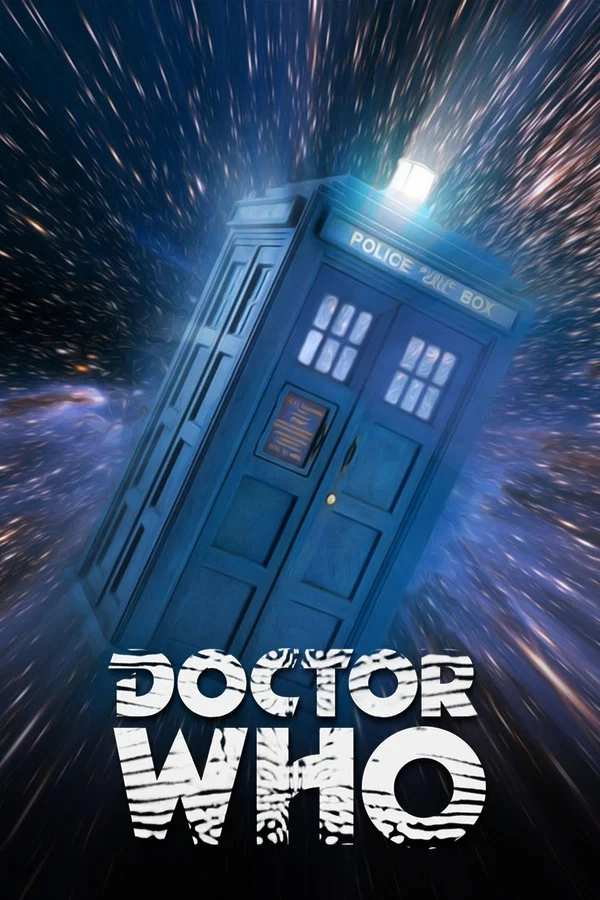
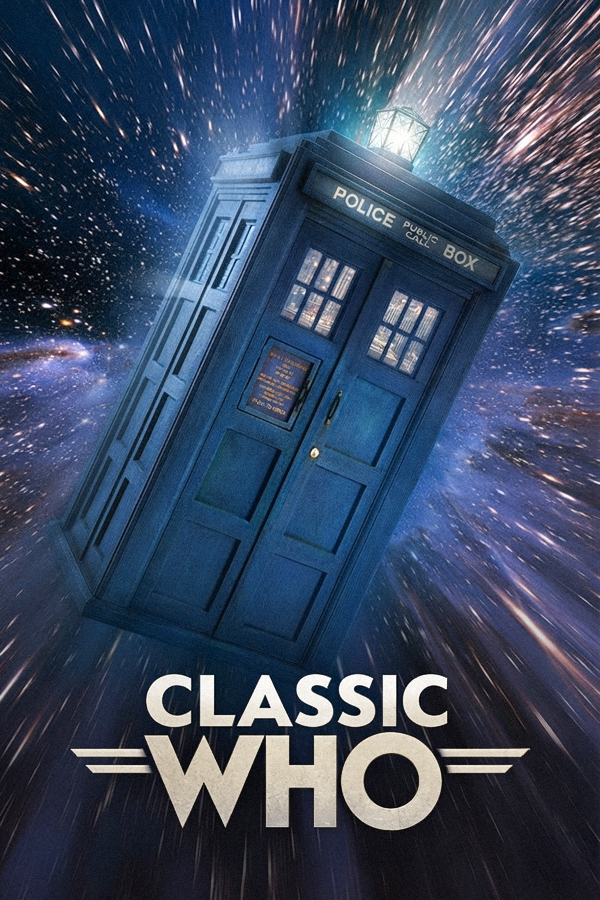
List every series in the catalogue, not only what plays
The catalogue offered the one series with files behind it, so six of the
seven were invisible in the app however good their artwork was. It now
lists all of them, and toSeriesMeta withholds the episode list from any
series with nothing playable: a poster and a description, no seasons.
That withholding is the point. Sending the episodes anyway would put all
716 of Classic Who into the library of anyone who added it, every one a
dead end.

Stamp the CDN images with a hash of their contents while here. The addon
logo has carried one for a while, for the reason its comment gives, but
the posters never did, so a replaced poster sat behind Cloudflare's four
hour cache and Stremio's rather longer one and looked like an upload
that had failed.

Classic Who and New Who get new poster artwork.

diff --git a/scripts/build-art.js b/scripts/build-art.js
@@ -67,11 +67,9 @@ async function cdn() {
   log('art-cdn/addon-logo.png', addonLogo);
 
   // Cloudflare caches the bucket for four hours and keys on the URL, so a
-  // replaced logo keeps serving the old bytes. The addon appends this hash to
-  // the logo's URL, which makes a changed file a changed address.
-  const hash = crypto.createHash('md5').update(fs.readFileSync(path.join(CDN, 'addon-logo.png'))).digest('hex').slice(0, 8);
-  fs.writeFileSync(path.join(ROOT, 'data', 'art-version.json'), `${JSON.stringify({ addonLogo: hash })}\n`);
-  console.log(`${'data/art-version.json'.padEnd(36)} addonLogo=${hash}`);
+  // replaced file keeps serving the old bytes. Every CDN image gets a hash in
+  // its address, written to data/art-version.json at the end of this function,
+  // which makes a changed file a changed URL.
 
   // The site's own icon, so a 16px favicon does not pull a 300KB file off the CDN.
   const icon = await mark.clone().resize(192, 192, { fit: 'contain', background: TRANSPARENT })
@@ -95,6 +93,30 @@ async function cdn() {
       .resize(800, 400, { fit: 'inside', withoutEnlargement: true }).png()
       .toFile(path.join(CDN, 'logo', `${k}.png`));
     log(`art-cdn/logo/${k}.png`, logo);
+  }
+
+  // The addon logo has carried a hash in its URL for a while, for the reason
+  // given above: replace a file and Cloudflare keeps serving the old bytes for
+  // four hours, and Stremio's own image cache holds on longer than that. The
+  // posters needed the same treatment and did not have it, so a new poster
+  // looked like it had not uploaded at all.
+  const stamps = { addonLogo: version(path.join(CDN, 'addon-logo.png')) };
+  for (const dir of ['poster', 'background', 'logo']) {
+    stamps[dir] = Object.fromEntries(series.map((e) => {
+      const ext = dir === 'logo' ? 'png' : 'jpg';
+      return [e.key, version(path.join(CDN, dir, `${e.key}.${ext}`))];
+    }));
+  }
+  fs.writeFileSync(path.join(ROOT, 'data', 'art-version.json'), `${JSON.stringify(stamps)}\n`);
+  console.log(`${'data/art-version.json'.padEnd(36)} ${series.length * 3 + 1} files stamped`);
+}
+
+/** Eight characters of the file's md5, or empty if it is not there. */
+function version(file) {
+  try {
+    return crypto.createHash('md5').update(fs.readFileSync(file)).digest('hex').slice(0, 8);
+  } catch {
+    return '';
   }
 }
 

diff --git a/lib/addon.js b/lib/addon.js
@@ -8,6 +8,7 @@ const { addonBuilder } = require('stremio-addon-sdk');
 
 const {
   playableSeries,
+  populatedSeries,
   episodesFor,
   typeOf,
   toCatalogMeta,
@@ -47,27 +48,28 @@ const manifest = {
     { name: 'stream', types: ['series', 'movie'], idPrefixes: ['whoniverse_'] },
     { name: 'subtitles', types: ['series', 'movie'], idPrefixes: ['whoniverse_'] },
   ],
-  // One row per type that has something to play: a client cannot mix films
+  // One row per type that has something catalogued: a client cannot mix films
   // and series in a row, and an empty row is noise. Rows follow the
   // registry's order, which is the website's order.
   catalogs: [
     { type: 'series', id: CATALOG_ID, name: 'Whoniverse' },
     { type: 'movie', id: MOVIE_CATALOG_ID, name: 'Whoniverse' },
-  ].filter((c) => playableSeries().some((s) => typeOf(s) === c.type)),
+  ].filter((c) => populatedSeries().some((s) => typeOf(s) === c.type)),
   behaviorHints: { configurable: false, adult: false },
 };
 
 const builder = new addonBuilder(manifest);
 
-// Only what plays is listed. The rest of the Whoniverse is catalogued and
-// shown on the website, and joins here the day its files land.
+// Every catalogued series is listed, whether its files have landed or not, so
+// the row shows the whole Whoniverse. A series with nothing playable yet gets
+// its artwork and its description and no episode list at all: see toSeriesMeta.
 builder.defineCatalogHandler(async (args) => {
   if (args.id !== CATALOG_ID && args.id !== MOVIE_CATALOG_ID) return { metas: [] };
-  return { metas: playableSeries().filter((s) => typeOf(s) === args.type).map(toCatalogMeta) };
+  return { metas: populatedSeries().filter((s) => typeOf(s) === args.type).map(toCatalogMeta) };
 });
 
 builder.defineMetaHandler(async (args) => {
-  const entry = playableSeries().find((s) => s.stremioId === args.id);
+  const entry = populatedSeries().find((s) => s.stremioId === args.id);
   if (!entry || typeOf(entry) !== args.type) return { meta: null };
   return { meta: toSeriesMeta(entry) };
 });

diff --git a/lib/series.js b/lib/series.js
@@ -23,19 +23,21 @@ const SITE = process.env.SITE_URL || 'https://whoniverse.nubblyn.com';
 // fast as an episode and does not depend on a third party. scripts/build-art.js
 // makes the files from art-src/ and scripts/upload-art.sh puts them there.
 const CDN_ART = 'https://cdn.nubblyn.com/file/whoniverse/art';
-// The hash is written by scripts/build-art.js. Without it a replaced logo sits
-// behind Cloudflare's cache for four hours; with it the URL changes when the
-// file does. Absent on a fresh clone that has not built art yet.
-let logoVersion = '';
-try { logoVersion = `?v=${require('../data/art-version.json').addonLogo}`; } catch { /* not built yet */ }
-const ADDON_LOGO = `${CDN_ART}/addon-logo.png${logoVersion}`;
+// The hashes are written by scripts/build-art.js. Without one a replaced image
+// sits behind Cloudflare's four hour cache, and behind Stremio's own image
+// cache for longer than that; with one the URL changes when the file does.
+// Absent on a fresh clone that has not built art yet.
+let stamps = {};
+try { stamps = require('../data/art-version.json'); } catch { /* not built yet */ }
+const v = (kind, key) => (stamps[kind] && stamps[kind][key] ? `?v=${stamps[kind][key]}` : '');
+const ADDON_LOGO = `${CDN_ART}/addon-logo.png${stamps.addonLogo ? `?v=${stamps.addonLogo}` : ''}`;
 
 /** Poster, background and logo for a series, all from the bucket. */
 function bucketArt(key) {
   return {
-    poster: `${CDN_ART}/poster/${key}.jpg`,
-    background: `${CDN_ART}/background/${key}.jpg`,
-    logo: `${CDN_ART}/logo/${key}.png`,
+    poster: `${CDN_ART}/poster/${key}.jpg${v('poster', key)}`,
+    background: `${CDN_ART}/background/${key}.jpg${v('background', key)}`,
+    logo: `${CDN_ART}/logo/${key}.png${v('logo', key)}`,
   };
 }
 

diff --git a/lib/catalog.js b/lib/catalog.js
@@ -132,6 +132,12 @@ function toSeriesMeta(entry) {
   };
   if (typeOf(entry) === 'movie') return meta;
 
+  // A series with nothing playable yet is listed for its artwork alone. Sending
+  // the episode list anyway would fill the page with seasons whose every entry
+  // dead-ends, and Stremio would put all 716 of Classic Who into the library of
+  // anyone who added it. The videos arrive with the files.
+  if (!episodesFor(entry).some(hasStream)) return meta;
+
   // Cinemeta sends released/firstAired and overview/description in pairs, so
   // both names are safe to send together and clients read whichever they
   // know. The episode's title is the exception: Stremio's core takes `name`
